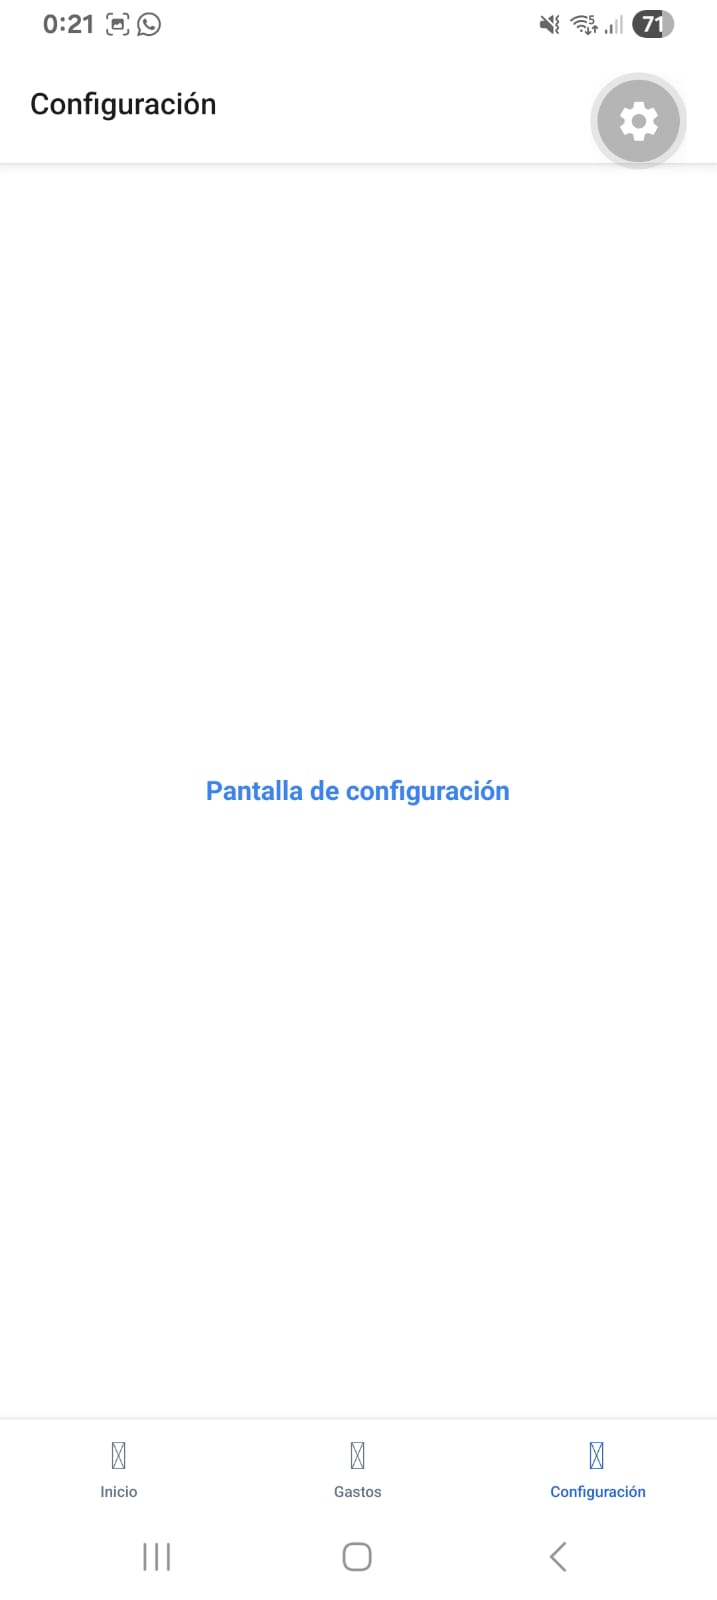
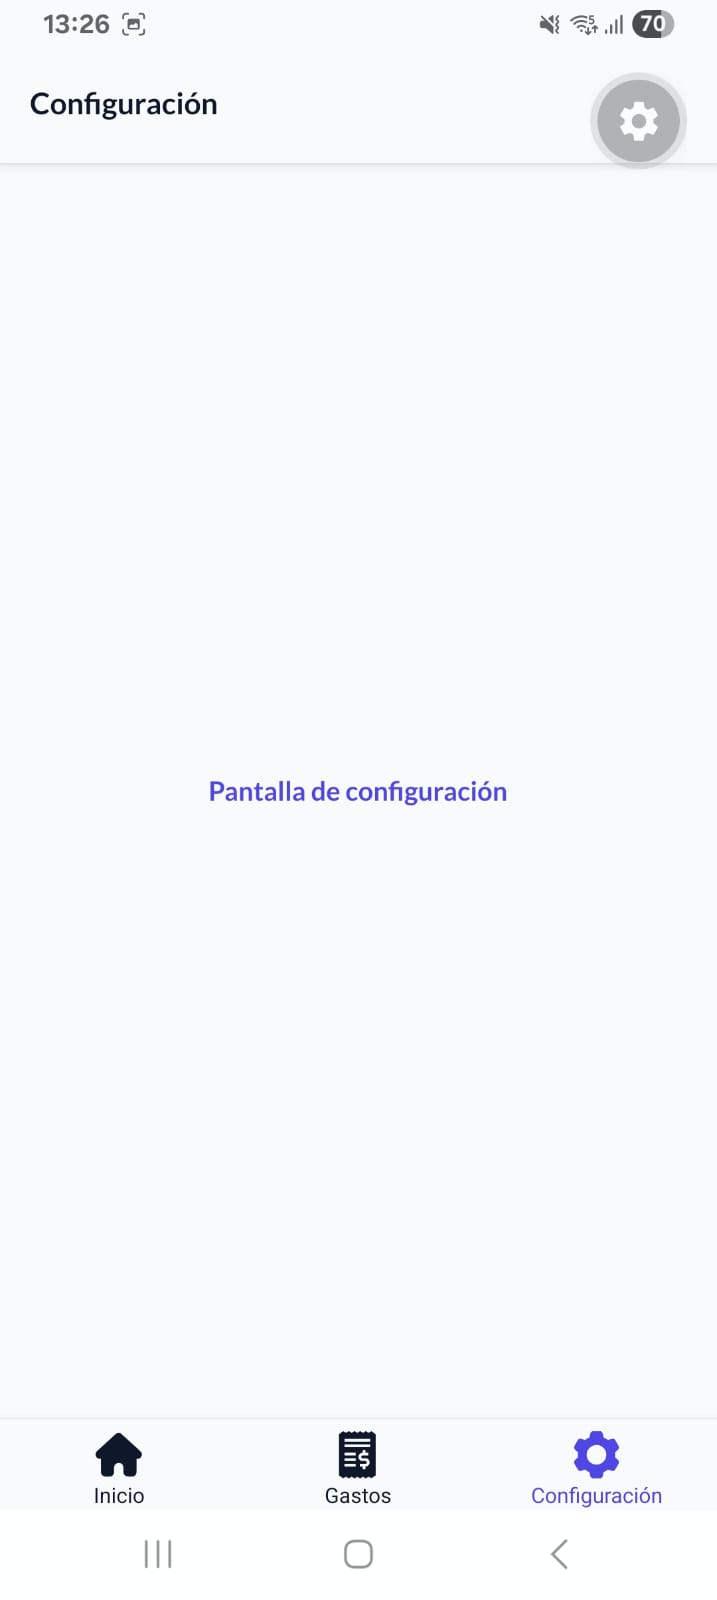
docs(sprint1): actualizar capturas de Expo Go y ajustar tamaños en README
- Reemplazo de capturas en docs-utils/ con la versión actual en Expo Go
- Ajuste de ancho de imágenes y tabla horizontal en README.md para mejor lectura

diff --git a/README.md b/README.md
@@ -15,18 +15,16 @@
 - Demo de `NavigationContainer` con los `TabScreens`, `StackNavigator` y Bottom Navigation Bar.
 
 #### Pantalla de inicio, gastos y configuración como TabScreens
-- Pantalla de inicio
-![Inicio](./docs-utils/s6-demo-inicio.jpeg)
-- Pantalla de gastos
-![Gastos](./docs-utils/s6-demo-gastos.jpeg)
-- Pantalla de configuración
-![Configuración](./docs-utils/s6-demo-configuracion.jpeg)
+
+| Inicio | Gastos | Configuración |
+| --- | --- | --- |
+| <img src="./docs-utils/s6-demo-inicio.jpeg" width="240" alt="Inicio Expo" /> | <img src="./docs-utils/s6-demo-gastos.jpeg" width="240" alt="Gastos Expo" /> | <img src="./docs-utils/s6-demo-configuracion.jpeg" width="240" alt="Configuración Expo" /> |
 
 #### Demostración de StackNavigator y Navegación Anidada
 - Se integró el `StackNavigator` junto con el `TabNavigator` para permitir navegación fluida entre pantallas y apertura de modales.
 - Permite acceder al detalle de un gasto puntual y abrir la pantalla modal para registrar nuevos gastos.
 
-![Demo Navegación](./docs-utils/s6-stackNavigation-demo.gif)
+<img src="./docs-utils/s6-stackNavigation-demo.gif" width="260" alt="Demo Navegación Expo" />
 
 ---
 
@@ -39,14 +37,14 @@ Versión web desarrollada con React + Vite en [`expense-tracker-pwa/`](./expense
 - **Lighthouse Mobile:** 100 Performance · 100 Accessibility · 100 Best Practices · 100 SEO ([ver captura](./expense-tracker-pwa/docs/lighthouse-mobile.png)).
 
 ### Demo instalada en teléfono (`standalone`)
-![Demo PWA instalada](./expense-tracker-pwa/docs/pwa-demo.gif)
+<img src="./expense-tracker-pwa/docs/pwa-demo.gif" width="260" alt="Demo PWA instalada" />
 
 ### Comparativa visual: React Native vs PWA
 | Pantalla | React Native (Expo Go) | PWA (React + Vite) |
 | --- | --- | --- |
-| Inicio | ![Inicio Expo](./docs-utils/s6-demo-inicio.jpeg) | ![Inicio PWA](./expense-tracker-pwa/docs/home-mobile.png) |
-| Listado de gastos | ![Gastos Expo](./docs-utils/s6-demo-gastos.jpeg) | ![Gastos PWA](./expense-tracker-pwa/docs/expenses-mobile.png) |
-| Nuevo gasto (modal) | — | ![Modal PWA](./expense-tracker-pwa/docs/modal-mobile.png) |
+| Inicio | <img src="./docs-utils/s6-demo-inicio.jpeg" width="240" alt="Inicio Expo" /> | <img src="./expense-tracker-pwa/docs/home-mobile.png" width="240" alt="Inicio PWA" /> |
+| Listado de gastos | <img src="./docs-utils/s6-demo-gastos.jpeg" width="240" alt="Gastos Expo" /> | <img src="./expense-tracker-pwa/docs/expenses-mobile.png" width="240" alt="Gastos PWA" /> |
+| Nuevo gasto (modal) | — | <img src="./expense-tracker-pwa/docs/modal-mobile.png" width="240" alt="Modal PWA" /> |
 
 ### Tabla comparativa: React Native vs PWA
 | Aspecto | React Native (Expo) | PWA (React + Vite) |
